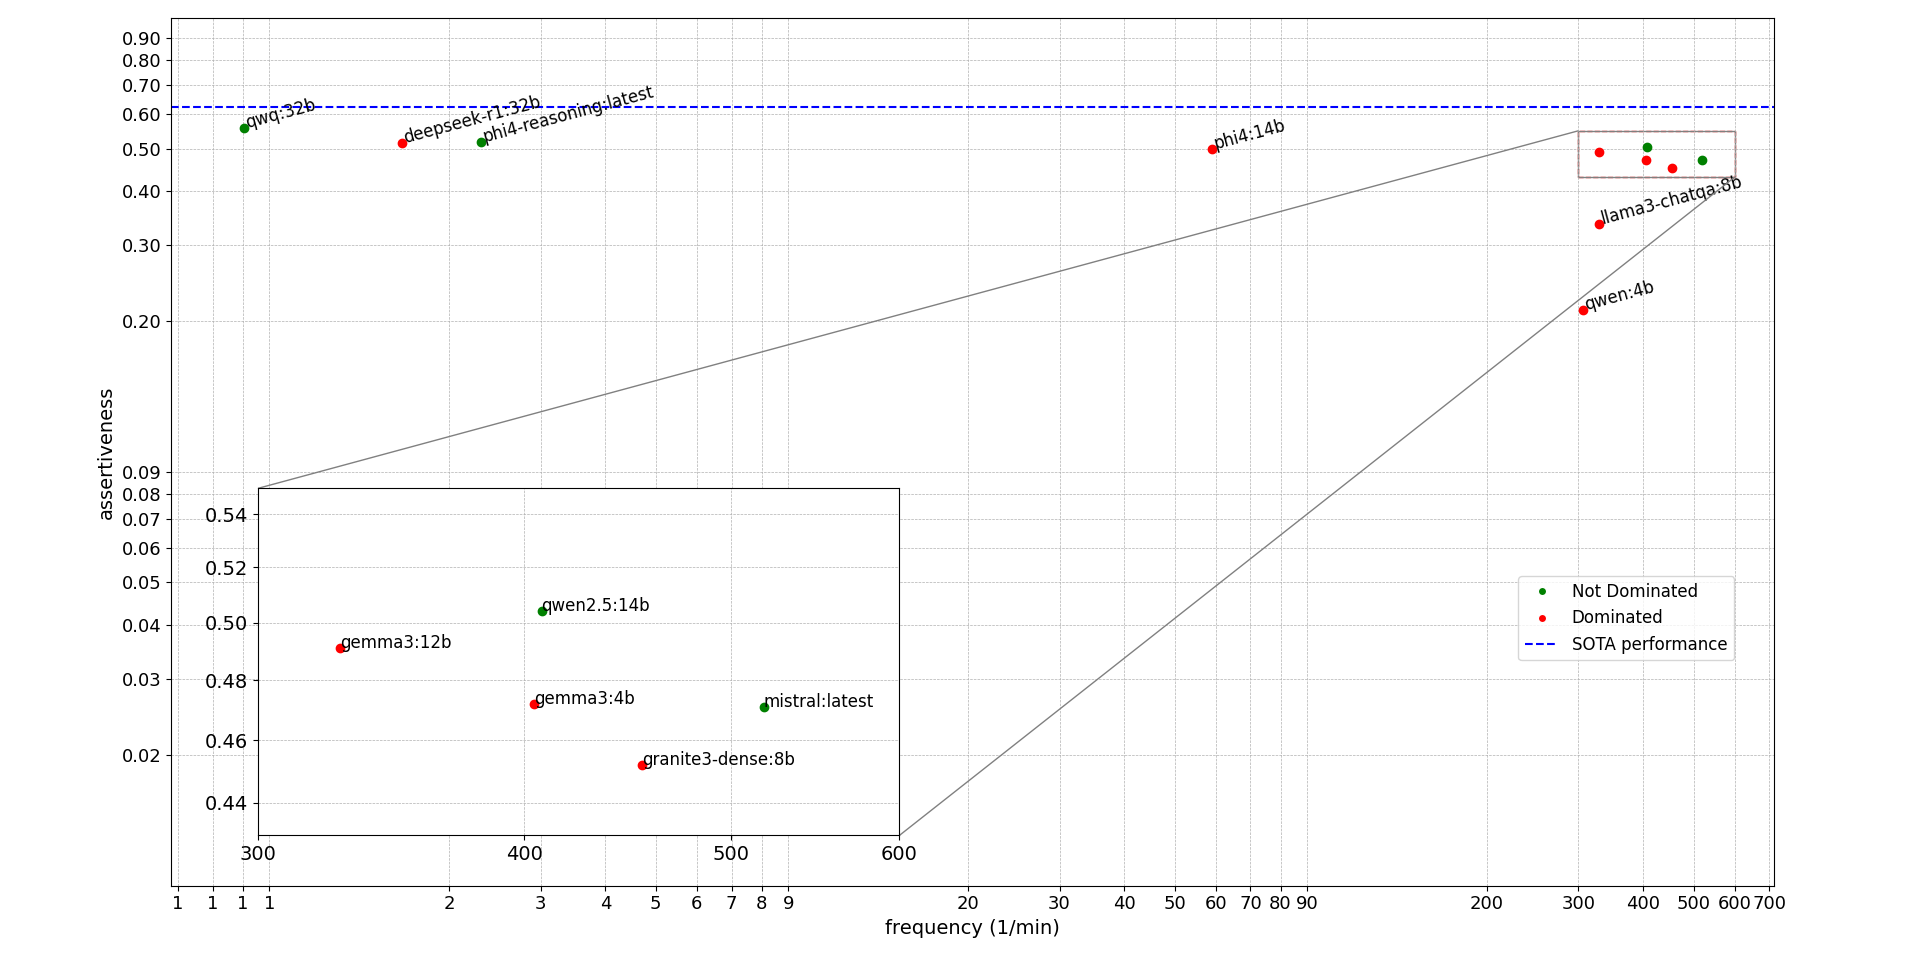
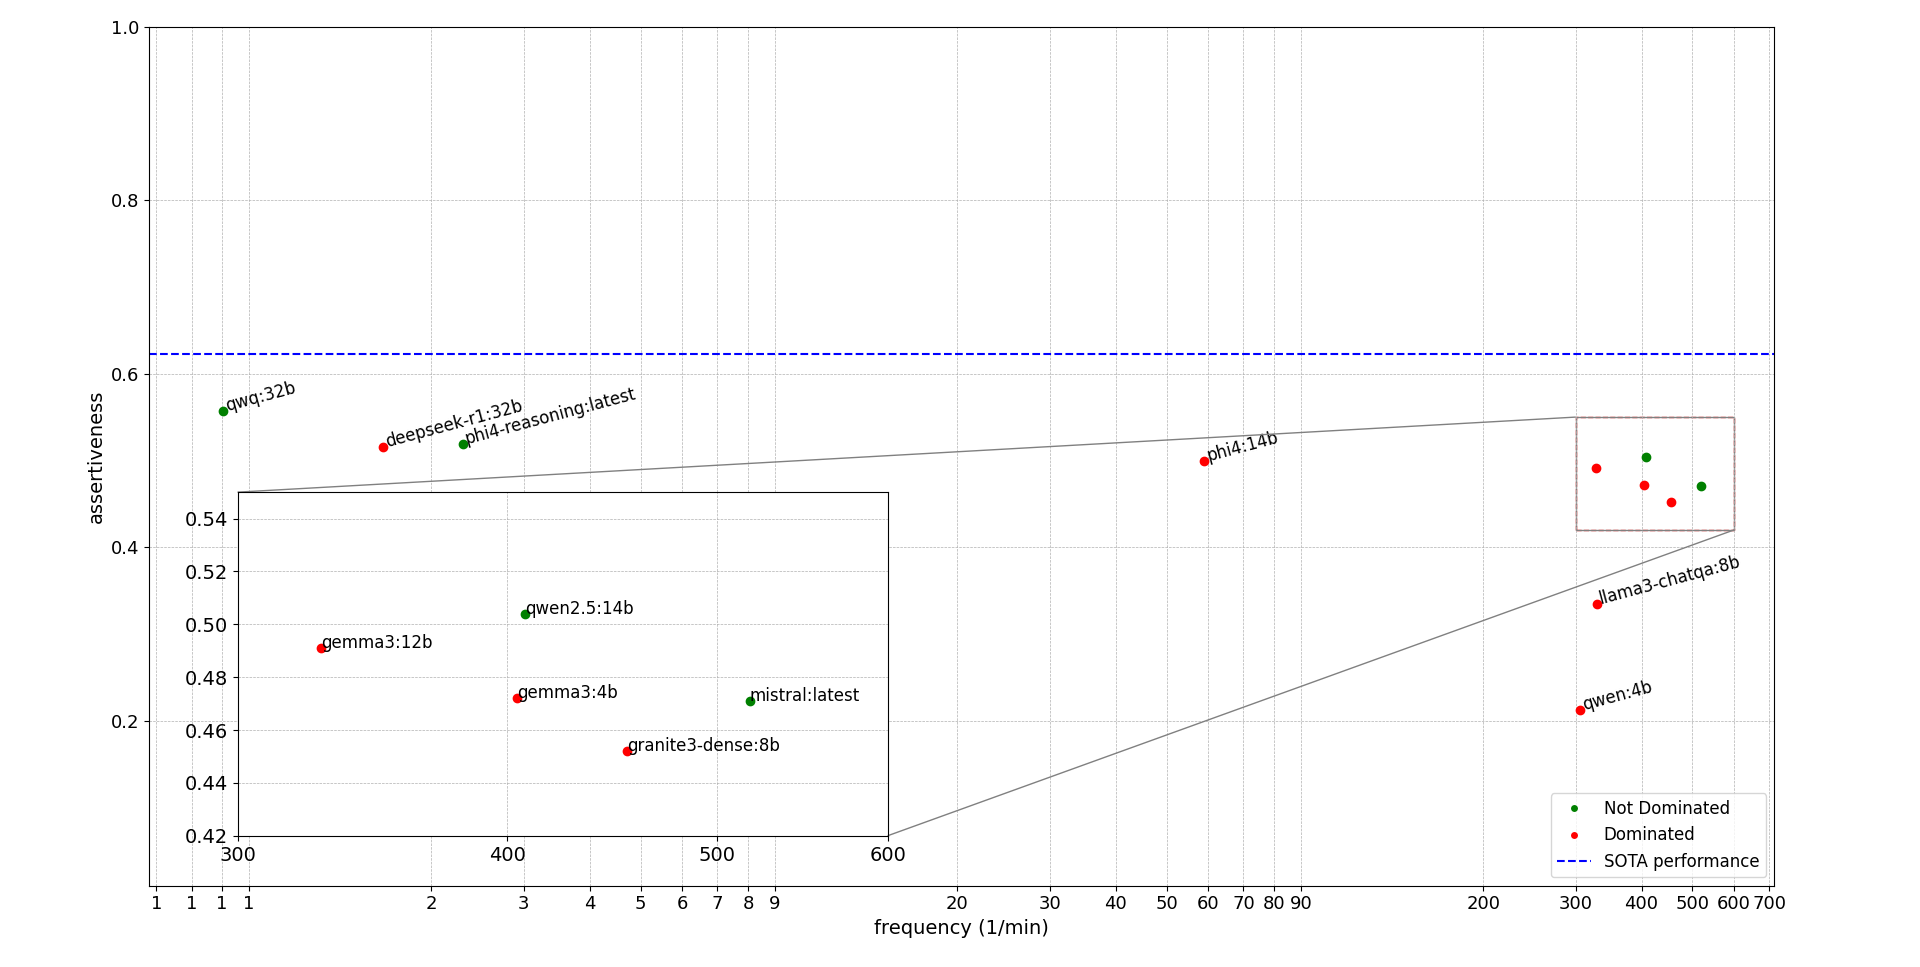
removed log scale

diff --git a/comparison/dataset_1/plot_points_first_assertiveness.py b/comparison/dataset_1/plot_points_first_assertiveness.py
@@ -36,14 +36,14 @@ ax.set_ylim(bottom=0.01, top=1)
 for i in range(len(x)):
     ax.plot(x[i], y[i], 'o', color=colors[i], markersize=6)
 
-ax.set_xscale('log')
-ax.set_yscale('log')
+ax.set_xscale('log')  # Keep x-axis log
+# Removed y-axis log scale: ax.set_yscale('log')
 
 # Labels and title
 ax.set_xlabel('frequency (1/min)', fontsize=14)
 ax.set_ylabel('assertiveness', fontsize=14)
 
-# --- X-axis: Log scale with plain number formatting ---
+# X-axis: log scale with plain number formatting
 ax.xaxis.set_major_locator(LogLocator(base=10.0, subs='auto', numticks=20))
 ax.xaxis.set_minor_locator(LogLocator(base=10.0, subs=np.arange(2, 10) * 0.1, numticks=100))
 x_formatter = ScalarFormatter()
@@ -51,18 +51,16 @@ x_formatter.set_scientific(False)
 ax.xaxis.set_major_formatter(x_formatter)
 ax.xaxis.set_minor_formatter(plt.NullFormatter())
 
-# --- Y-axis: Log scale with plain number formatting ---
-ax.yaxis.set_major_locator(LogLocator(base=10.0, subs='auto', numticks=20))
-ax.yaxis.set_minor_locator(LogLocator(base=10.0, subs=np.arange(2, 10) * 0.1, numticks=100))
-y_formatter = ScalarFormatter()
-y_formatter.set_scientific(False)
-ax.yaxis.set_major_formatter(y_formatter)
-ax.yaxis.set_minor_formatter(plt.NullFormatter())
+# Y-axis: linear scale with plain formatting
+ax.yaxis.set_major_formatter(ScalarFormatter())
+ax.tick_params(axis='y', which='major', labelsize=13)
+ax.tick_params(axis='y', which='minor', labelsize=10)
+ax.grid(True, which='both', axis='y', linestyle='--', linewidth=0.5)
 
 # Improve visibility
-ax.tick_params(axis='both', which='major', labelsize=13)
-ax.tick_params(axis='both', which='minor', labelsize=10)
-ax.grid(True, which='both', linestyle='--', linewidth=0.5)
+ax.tick_params(axis='x', which='major', labelsize=13)
+ax.tick_params(axis='x', which='minor', labelsize=10)
+ax.grid(True, which='both', axis='x', linestyle='--', linewidth=0.5)
 
 # Reference line
 sota_value = 0.6227
@@ -76,13 +74,12 @@ legend_elements = [
 ]
 ax.legend(handles=legend_elements,
           loc='lower right',
-          bbox_to_anchor=(0.98, 0.25),
           fontsize=12)
 
-# --- Zoomed inset ---
+# Zoomed inset
 zoom_x_min = 300
 zoom_x_max = 600
-zoom_y_min = 0.43
+zoom_y_min = 0.42
 zoom_y_max = 0.55
 
 axins = inset_axes(ax, width="40%", height="40%", loc='lower left',
@@ -94,12 +91,12 @@ for i in range(len(x)):
 
 axins.set_xlim(zoom_x_min, zoom_x_max)
 axins.set_ylim(zoom_y_min, zoom_y_max)
-axins.set_xscale('log')
-axins.set_yscale('log')
-axins.grid(True, which='both', linestyle='--', linewidth=0.5)
-axins.tick_params(axis='both', which='major', labelsize=8)
+axins.set_xscale('log')  # Keep log scale on x-axis
+# Removed log scale on y-axis: axins.set_yscale('log')
 
-# Format zoomed-in axes with plain numbers
+axins.grid(True, which='major', axis='both', linestyle='--', linewidth=0.5)
+
+# Format zoomed-in axes
 xins_formatter = ScalarFormatter()
 xins_formatter.set_scientific(False)
 axins.xaxis.set_major_formatter(xins_formatter)
@@ -112,8 +109,6 @@ axins.yaxis.set_minor_formatter(plt.NullFormatter())
 
 axins.xaxis.set_major_locator(LogLocator(base=10.0, subs='auto', numticks=15))
 axins.xaxis.set_minor_locator(LogLocator(base=10.0, subs=np.arange(2, 10) * 0.1, numticks=100))
-axins.yaxis.set_major_locator(LogLocator(base=10.0, subs='auto', numticks=15))
-axins.yaxis.set_minor_locator(LogLocator(base=10.0, subs=np.arange(2, 10) * 0.1, numticks=100))
 
 # Annotate points in zoomed section
 for i in range(len(x)):
@@ -125,7 +120,7 @@ for i in range(len(x)):
                        xytext=(0, 0), textcoords='offset points')
         labels[i] = ""
 
-# Annotate points in main plot
+# Annotate remaining points in main plot
 for freq, assertiv, label in zip(x, y, labels):
     ax.annotate(label, (freq, assertiv), fontsize=12, rotation=15)
 

diff --git a/comparison/dataset_2/plot_points_second_assertiveness.py b/comparison/dataset_2/plot_points_second_assertiveness.py
@@ -30,29 +30,28 @@ for i in range(len(x)):
 
 # Create plot
 fig, ax = plt.subplots(figsize=(10, 8))
-ax.set_ylim(bottom=0.01, top=1)
+ax.set_ylim(bottom=0, top=1)  # Changed from 0.01 to 0 for linear scale
 
 # Plot points
 for i in range(len(x)):
     ax.plot(x[i], y[i], 'o', color=colors[i], markersize=6)
 
-ax.set_xscale('log')
-ax.set_yscale('log')
+ax.set_xscale('log')  # Keep x-axis as log scale
+# Removed y-axis log scale
 
 # Labels and title
 ax.set_xlabel('frequency (1/min)', fontsize=14)
 ax.set_ylabel('assertiveness', fontsize=14)
 
-# --- Main Axes: Increase ticks ---
+# --- Main Axes: Ticks for linear y-axis ---
 ax.xaxis.set_major_locator(LogLocator(base=10.0, subs=None, numticks=20))
-ax.yaxis.set_major_locator(LogLocator(base=10.0, subs=None, numticks=20))
 ax.xaxis.set_minor_locator(LogLocator(base=10.0, subs=np.arange(2, 10), numticks=100))
-ax.yaxis.set_minor_locator(LogLocator(base=10.0, subs=np.arange(2, 10), numticks=100))
-
 ax.xaxis.set_major_formatter(ScalarFormatter())
-ax.yaxis.set_major_formatter(ScalarFormatter())
 ax.xaxis.set_minor_formatter(ScalarFormatter())
-ax.yaxis.set_minor_formatter(ScalarFormatter())
+
+# Linear y-axis ticks
+ax.yaxis.set_major_locator(plt.MultipleLocator(0.1))
+ax.yaxis.set_minor_locator(plt.MultipleLocator(0.02))
 
 ax.tick_params(axis='both', which='major', labelsize=12)
 ax.tick_params(axis='both', which='minor', labelsize=10)
@@ -65,11 +64,10 @@ legend_elements = [
 ]
 ax.legend(handles=legend_elements, 
           loc='lower right', 
-          bbox_to_anchor=(0.98, 0.25), 
           fontsize=12)
 
 # --- Zoomed inset ---
-zoom_x_min = 200
+zoom_x_min = 220
 zoom_x_max = 500
 zoom_y_min = 0.4
 zoom_y_max = 0.61
@@ -83,31 +81,22 @@ for i in range(len(x)):
 
 axins.set_xlim(zoom_x_min, zoom_x_max)
 axins.set_ylim(zoom_y_min, zoom_y_max)
-axins.set_xscale('log')
-axins.set_yscale('log')
-axins.grid(True, which='both', linestyle='--', linewidth=0.5)
+axins.set_xscale('log')  # Keep x-axis as log scale
+# Removed y-axis log scale for inset
 
-# --- Inset Axes: Moderate tick increase and font size match ---
-
-# Moderate density of major ticks
+# --- Inset Axes: Ticks ---
 axins.xaxis.set_major_locator(LogLocator(base=10.0, subs=np.arange(1, 10, 1), numticks=15))
-axins.yaxis.set_major_locator(LogLocator(base=10.0, subs=np.arange(1, 10, 1), numticks=15))
-
-# Moderate density of minor ticks
 axins.xaxis.set_minor_locator(LogLocator(base=10.0, subs=np.arange(2, 10, 2), numticks=50))
-axins.yaxis.set_minor_locator(LogLocator(base=10.0, subs=np.arange(2, 10, 2), numticks=50))
-
-# Formatters
 axins.xaxis.set_major_formatter(ScalarFormatter())
-axins.yaxis.set_major_formatter(ScalarFormatter())
 axins.xaxis.set_minor_formatter(ScalarFormatter())
-axins.yaxis.set_minor_formatter(ScalarFormatter())
 
-# Font size to match main plot
+# Linear y-axis ticks for inset
+axins.yaxis.set_major_locator(plt.MultipleLocator(0.05))
+axins.yaxis.set_minor_locator(plt.MultipleLocator(0.01))
+
 axins.tick_params(axis='both', which='major', labelsize=12)
 axins.tick_params(axis='both', which='minor', labelsize=10)
-
-
+axins.grid(True, which='both', linestyle='--', linewidth=0.5)
 
 # Annotate points in zoomed section
 for i in range(len(x)):

diff --git a/comparison/dataset_1/plot_points_first_score.py b/comparison/dataset_1/plot_points_first_score.py
@@ -2,7 +2,7 @@ import matplotlib.pyplot as plt
 import os
 import json
 import numpy as np
-from matplotlib.ticker import LogLocator, ScalarFormatter
+from matplotlib.ticker import LogLocator, ScalarFormatter, MultipleLocator
 from mpl_toolkits.axes_grid1.inset_locator import inset_axes, mark_inset
 from matplotlib.lines import Line2D
 
@@ -37,7 +37,7 @@ for i in range(len(x)):
     ax.plot(x[i], y[i], 'o', color=colors[i], markersize=6)
 
 ax.set_xscale('log')
-ax.set_yscale('log')
+ax.set_yscale('linear')  # Changed from 'log' to 'linear'
 
 # Labels and title
 ax.set_xlabel('frequency (1/min)', fontsize=14)
@@ -51,13 +51,12 @@ ax.xaxis.set_minor_formatter(ScalarFormatter())
 ax.tick_params(axis='x', which='major', labelsize=12)
 ax.tick_params(axis='x', which='minor', labelsize=12)
 
-# --- Y-axis (main plot) ---
-ax.yaxis.set_major_locator(LogLocator(base=10.0, numticks=20))
-ax.yaxis.set_minor_locator(LogLocator(base=10.0, subs=np.arange(2, 10)*0.1, numticks=100))
+# --- Y-axis (main plot) updated for linear scale ---
+ax.yaxis.set_major_locator(MultipleLocator(0.1))
+ax.yaxis.set_minor_locator(MultipleLocator(0.02))
 ax.yaxis.set_major_formatter(ScalarFormatter())
-ax.yaxis.set_minor_formatter(ScalarFormatter())
 ax.tick_params(axis='y', which='major', labelsize=12)
-ax.tick_params(axis='y', which='minor', labelsize=12)
+ax.tick_params(axis='y', which='minor', labelsize=10)
 
 ax.grid(True, which='both', linestyle='--', linewidth=0.5)
 
@@ -66,7 +65,7 @@ legend_elements = [
     Line2D([0], [0], marker='o', color='w', label='Not Dominated', markerfacecolor='green', markersize=6),
     Line2D([0], [0], marker='o', color='w', label='Dominated', markerfacecolor='red', markersize=6),
 ]
-ax.legend(handles=legend_elements, loc='lower right', bbox_to_anchor=(0.98, 0.25), fontsize=12)
+ax.legend(handles=legend_elements, loc='lower right', fontsize=12)
 
 # --- Zoomed inset ---
 zoom_x_min = 300
@@ -84,10 +83,8 @@ for i in range(len(x)):
 axins.set_xlim(zoom_x_min, zoom_x_max)
 axins.set_ylim(zoom_y_min, zoom_y_max)
 axins.set_xscale('log')
-
-# Use linear y-scale to get more tick labels in inset
 axins.set_yscale('linear')
-axins.set_yticks(np.linspace(zoom_y_min, zoom_y_max, 6))  # 6 evenly spaced ticks
+axins.set_yticks(np.linspace(zoom_y_min, zoom_y_max, 6))
 axins.yaxis.set_major_formatter(ScalarFormatter())
 axins.tick_params(axis='y', which='major', labelsize=12)
 

diff --git a/comparison/dataset_2/plot_points_second_score.py b/comparison/dataset_2/plot_points_second_score.py
@@ -35,8 +35,8 @@ fig, ax = plt.subplots(figsize=(10, 8))
 for i in range(len(x)):
     ax.plot(x[i], y[i], 'o', color=colors[i], markersize=6)
 
-ax.set_xscale('log')
-ax.set_yscale('log')
+ax.set_xscale('log')  # Keep x-axis as log scale
+# Removed y-axis log scale
 
 # Labels and title
 ax.set_xlabel('frequency (1/min)', fontsize=14)
@@ -48,8 +48,8 @@ x_formatter = ScalarFormatter()
 x_formatter.set_scientific(False)
 ax.xaxis.set_major_formatter(x_formatter)
 
-# --- Y-axis: Log scale with all ticks labeled ---
-ax.yaxis.set_major_locator(LogLocator(base=10.0, subs='all', numticks=30))
+# --- Y-axis: Now linear scale ---
+ax.yaxis.set_major_locator(plt.MaxNLocator(10))  # Use MaxNLocator for linear scale
 y_formatter = ScalarFormatter()
 y_formatter.set_scientific(False)
 ax.yaxis.set_major_formatter(y_formatter)
